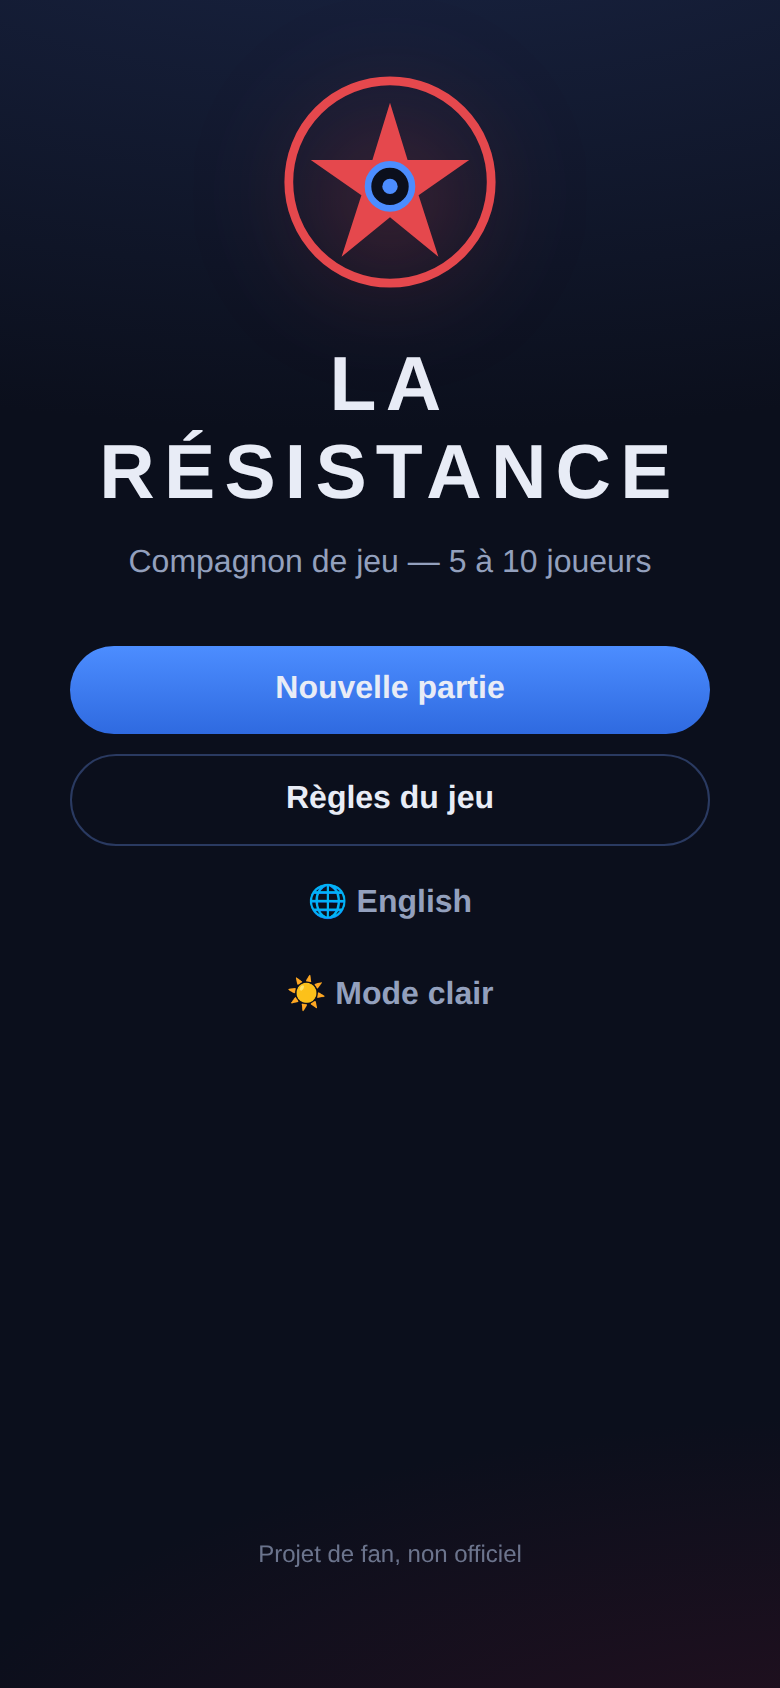
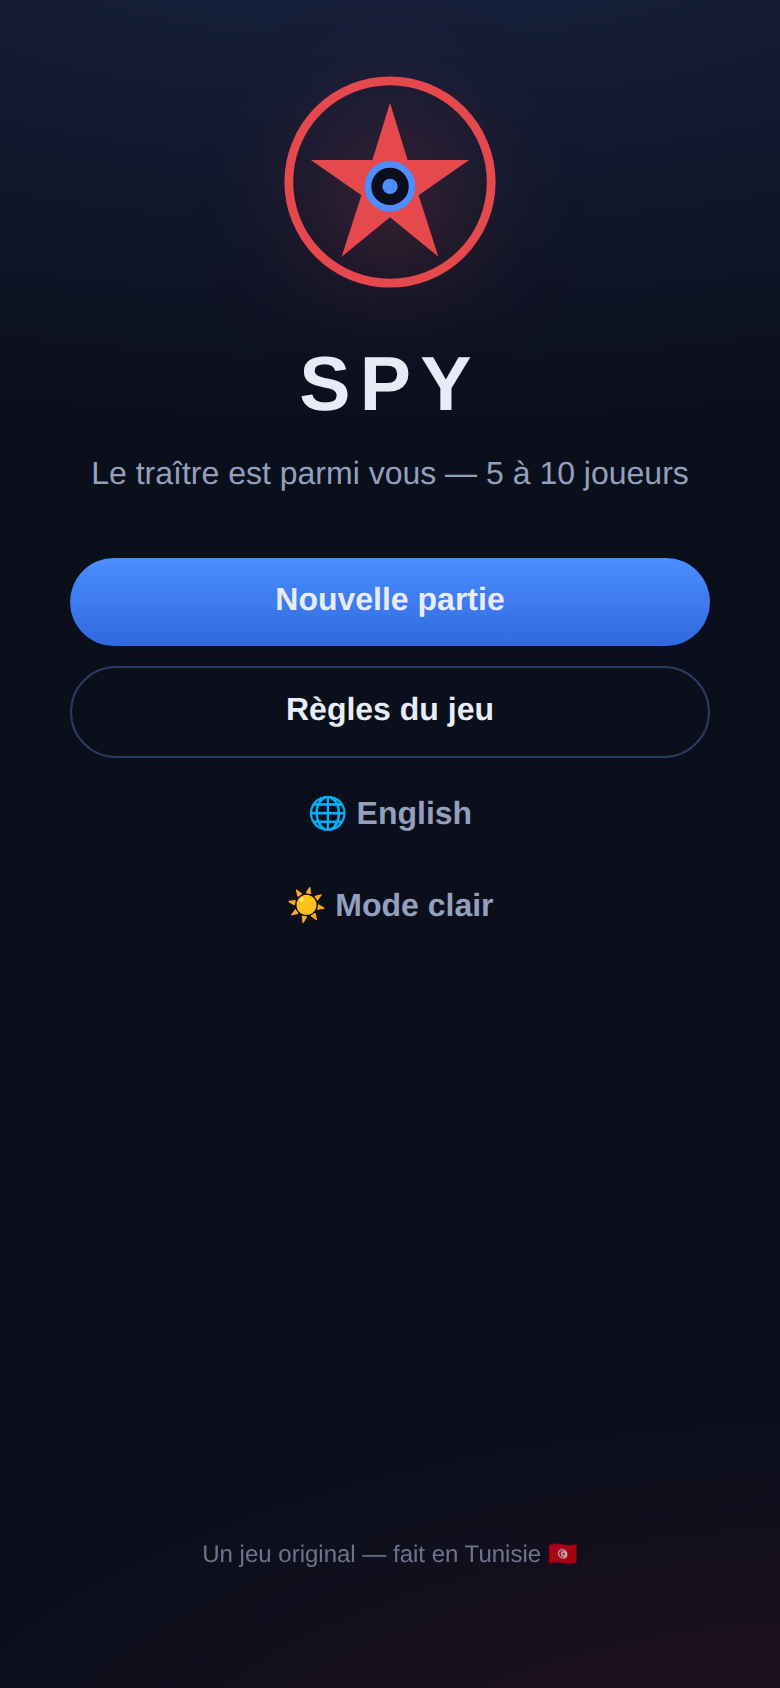
Rebranding : le jeu devient « Spy — le traître est parmi vous »
Nouveau nom en préparation de la publication et de la communication :
- Titre « Spy » (FR/EN), devise « Le traître est parmi vous », signature
  « Un jeu original — fait en Tunisie »
- La faction Résistance devient « les Agents » (cartes, votes, règles,
  annonces, écrans de fin) ; les Espions sont inchangés
- index.html, manifest (nom d'installation « Spy ») et README réécrits
  comme jeu de déduction sociale original — plus aucune référence à une
  marque de jeu de société existante
- Tests adaptés (titre unique « SPY », bascule de langue vérifiée sur un
  libellé traduit) ; captures régénérées
- Cache du service worker renommé spy-v9

Claude-Session: https://claude.ai/code/session_01JPXwtAPd76jqgUSm7TX1WG

diff --git a/js/i18n.js b/js/i18n.js
@@ -4,9 +4,9 @@
  */
 var I18N = {
   fr: {
-    'app.title': 'La Résistance',
-    'app.tagline': 'Compagnon de jeu — 5 à 10 joueurs',
-    'app.unofficial': 'Projet de fan, non officiel',
+    'app.title': 'Spy',
+    'app.tagline': 'Le traître est parmi vous — 5 à 10 joueurs',
+    'app.unofficial': 'Un jeu original — fait en Tunisie 🇹🇳',
 
     'home.newGame': 'Nouvelle partie',
     'home.resume': 'Reprendre la partie',
@@ -17,7 +17,7 @@ var I18N = {
 
     'setup.title': 'Nouvelle partie',
     'setup.playerCount': 'Nombre de joueurs',
-    'setup.spiesInfo': '{res} résistants · {spy} espions',
+    'setup.spiesInfo': '{res} agents · {spy} espions',
     'setup.namePlaceholder': 'Joueur {i}',
     'setup.options': 'Options',
     'setup.knownSpies': 'Les espions se connaissent',
@@ -36,14 +36,14 @@ var I18N = {
     'reveal.imHere': 'C’est moi ✋',
     'reveal.tapHint': 'Touche la carte pour la retourner. Retouche-la pour cacher ton rôle.',
     'reveal.secret': 'TOP SECRET',
-    'reveal.youAreRes': 'RÉSISTANCE',
+    'reveal.youAreRes': 'AGENT',
     'reveal.youAreSpy': 'ESPION',
     'reveal.youAreCommander': 'COMMANDANT',
     'reveal.resHint': 'Fais réussir 3 missions pour libérer la ville.',
     'reveal.spyHint': 'Sabote 3 missions sans te faire démasquer.',
     'reveal.commanderHint': 'Tu connais les espions. Reste discret : s’ils perdent, ils tenteront de t’éliminer.',
     'reveal.assassinBadge': 'ASSASSIN',
-    'reveal.assassinHint': 'Si la Résistance réussit 3 missions, c’est toi qui désigneras le Commandant présumé.',
+    'reveal.assassinHint': 'Si les Agents réussissent 3 missions, c’est toi qui désigneras le Commandant présumé.',
     'reveal.spiesAre': 'Les espions :',
     'reveal.accomplices': 'Tes complices :',
     'reveal.blindSpies': 'Variante à l’aveugle : tu ne connais pas tes complices.',
@@ -87,7 +87,7 @@ var I18N = {
     'mission.pickHint': 'Cache bien ton écran.',
     'mission.success': 'SUCCÈS',
     'mission.fail': 'SABOTAGE',
-    'mission.rule': 'Rappel : la Résistance joue toujours Succès.',
+    'mission.rule': 'Rappel : les Agents jouent toujours Succès.',
     'mission.confirm': 'Valider ce choix',
     'mission.change': 'Changer',
     'mission.revealTitle': 'Résultat de la mission {i}',
@@ -111,15 +111,15 @@ var I18N = {
     'cer.openAll': 'Ouvrez tous les yeux… La partie commence !',
 
     'assassin.title': 'Dernière chance des espions',
-    'assassin.hint': 'La Résistance a réussi 3 missions… mais si l’Assassin identifie le Commandant, les espions volent la victoire. Espions, concertez-vous : qui est le Commandant ?',
+    'assassin.hint': 'Les Agents ont réussi 3 missions… mais si l’Assassin identifie le Commandant, les espions volent la victoire. Espions, concertez-vous : qui est le Commandant ?',
     'assassin.choose': 'Désignez le Commandant présumé',
     'assassin.pick': 'Éliminer {name}',
 
-    'over.resWin': 'La Résistance l’emporte !',
+    'over.resWin': 'Les Agents l’emportent !',
     'over.spyWin': 'Les Espions l’emportent !',
     'over.byVotes': 'Cinq équipes rejetées d’affilée : le chaos a profité aux espions.',
     'over.assassinated': '{name} était bien le Commandant : la victoire change de camp !',
-    'over.survived': 'Raté ! {name} n’était pas le Commandant. La Résistance triomphe.',
+    'over.survived': 'Raté ! {name} n’était pas le Commandant. Les Agents triomphent.',
     'over.score': '{s} mission(s) réussie(s) · {f} sabotée(s)',
     'over.roles': 'Identités révélées',
     'over.replay': 'Rejouer (mêmes joueurs)',
@@ -128,11 +128,11 @@ var I18N = {
 
     'rules.title': 'Règles du jeu',
     'rules.goal.h': 'Le principe',
-    'rules.goal.p': 'Deux camps s’affrontent en secret. La majorité appartient à la Résistance, mais quelques espions infiltrés se cachent parmi vous. La Résistance gagne si 3 missions réussissent. Les espions gagnent si 3 missions échouent — ou si 5 équipes de suite sont rejetées au vote.',
+    'rules.goal.p': 'Deux camps s’affrontent en secret. La majorité sont des Agents, mais quelques espions infiltrés se cachent parmi vous. Les Agents gagnent si 3 missions réussissent. Les espions gagnent si 3 missions échouent — ou si 5 équipes de suite sont rejetées au vote.',
     'rules.turn.h': 'Déroulement d’une manche',
     'rules.turn.p1': '1. Le chef d’équipe propose une équipe pour la mission.',
     'rules.turn.p2': '2. Tout le monde vote publiquement pour ou contre cette équipe. Majorité stricte requise (égalité = rejet). Si l’équipe est rejetée, le rôle de chef passe au joueur suivant.',
-    'rules.turn.p3': '3. Si l’équipe est approuvée, chaque agent choisit en secret Succès ou Sabotage. La Résistance doit jouer Succès ; seuls les espions peuvent saboter. Une seule carte Sabotage suffit à faire échouer la mission (deux pour la 4e mission à partir de 7 joueurs).',
+    'rules.turn.p3': '3. Si l’équipe est approuvée, chaque membre choisit en secret Succès ou Sabotage. Les Agents doivent jouer Succès ; seuls les espions peuvent saboter. Une seule carte Sabotage suffit à faire échouer la mission (deux pour la 4e mission à partir de 7 joueurs).',
     'rules.spies.h': 'Les espions',
     'rules.spies.p': 'Les espions connaissent leurs complices (sauf en variante « à l’aveugle »). Leur arme : semer le doute, voter finement et saboter au bon moment.',
     'rules.table.h': 'Répartition',
@@ -148,16 +148,16 @@ var I18N = {
 
     'common.back': '← Retour',
     'common.players': 'joueurs',
-    'role.res': 'Résistance',
+    'role.res': 'Agent',
     'role.spy': 'Espion',
     'role.commander': 'Commandant',
     'role.assassin': 'Assassin'
   },
 
   en: {
-    'app.title': 'The Resistance',
-    'app.tagline': 'Game companion — 5 to 10 players',
-    'app.unofficial': 'Unofficial fan project',
+    'app.title': 'Spy',
+    'app.tagline': 'The traitor is among you — 5 to 10 players',
+    'app.unofficial': 'An original game — made in Tunisia 🇹🇳',
 
     'home.newGame': 'New game',
     'home.resume': 'Resume game',
@@ -168,7 +168,7 @@ var I18N = {
 
     'setup.title': 'New game',
     'setup.playerCount': 'Number of players',
-    'setup.spiesInfo': '{res} resistance · {spy} spies',
+    'setup.spiesInfo': '{res} agents · {spy} spies',
     'setup.namePlaceholder': 'Player {i}',
     'setup.options': 'Options',
     'setup.knownSpies': 'Spies know each other',
@@ -187,14 +187,14 @@ var I18N = {
     'reveal.imHere': 'That’s me ✋',
     'reveal.tapHint': 'Tap the card to flip it. Tap again to hide your role.',
     'reveal.secret': 'TOP SECRET',
-    'reveal.youAreRes': 'RESISTANCE',
+    'reveal.youAreRes': 'AGENT',
     'reveal.youAreSpy': 'SPY',
     'reveal.youAreCommander': 'COMMANDER',
     'reveal.resHint': 'Make 3 missions succeed to free the city.',
     'reveal.spyHint': 'Sabotage 3 missions without getting caught.',
     'reveal.commanderHint': 'You know the spies. Stay unnoticed: if they lose, they will try to eliminate you.',
     'reveal.assassinBadge': 'ASSASSIN',
-    'reveal.assassinHint': 'If the Resistance wins 3 missions, you will pick who you think the Commander is.',
+    'reveal.assassinHint': 'If the Agents win 3 missions, you will pick who you think the Commander is.',
     'reveal.spiesAre': 'The spies:',
     'reveal.accomplices': 'Your accomplices:',
     'reveal.blindSpies': 'Blind variant: you don’t know your accomplices.',
@@ -238,7 +238,7 @@ var I18N = {
     'mission.pickHint': 'Shield your screen.',
     'mission.success': 'SUCCESS',
     'mission.fail': 'SABOTAGE',
-    'mission.rule': 'Reminder: the Resistance always plays Success.',
+    'mission.rule': 'Reminder: Agents always play Success.',
     'mission.confirm': 'Confirm choice',
     'mission.change': 'Change',
     'mission.revealTitle': 'Mission {i} result',
@@ -262,15 +262,15 @@ var I18N = {
     'cer.openAll': 'Everyone, open your eyes… The game begins!',
 
     'assassin.title': 'The spies’ last chance',
-    'assassin.hint': 'The Resistance completed 3 missions… but if the Assassin identifies the Commander, the spies steal the win. Spies, talk it over: who is the Commander?',
+    'assassin.hint': 'The Agents completed 3 missions… but if the Assassin identifies the Commander, the spies steal the win. Spies, talk it over: who is the Commander?',
     'assassin.choose': 'Pick the suspected Commander',
     'assassin.pick': 'Eliminate {name}',
 
-    'over.resWin': 'The Resistance wins!',
+    'over.resWin': 'The Agents win!',
     'over.spyWin': 'The Spies win!',
     'over.byVotes': 'Five teams rejected in a row: chaos served the spies.',
     'over.assassinated': '{name} really was the Commander: the win changes sides!',
-    'over.survived': 'Missed! {name} was not the Commander. The Resistance triumphs.',
+    'over.survived': 'Missed! {name} was not the Commander. The Agents triumph.',
     'over.score': '{s} mission(s) succeeded · {f} sabotaged',
     'over.roles': 'Identities revealed',
     'over.replay': 'Play again (same players)',
@@ -279,11 +279,11 @@ var I18N = {
 
     'rules.title': 'How to play',
     'rules.goal.h': 'The idea',
-    'rules.goal.p': 'Two sides fight in the shadows. Most players belong to the Resistance, but a few undercover spies hide among you. The Resistance wins when 3 missions succeed. The spies win when 3 missions fail — or when 5 teams in a row are voted down.',
+    'rules.goal.p': 'Two sides fight in the shadows. Most players are Agents, but a few undercover spies hide among you. The Agents win when 3 missions succeed. The spies win when 3 missions fail — or when 5 teams in a row are voted down.',
     'rules.turn.h': 'A round',
     'rules.turn.p1': '1. The team leader proposes a team for the mission.',
     'rules.turn.p2': '2. Everyone votes openly for or against that team. Strict majority required (tie = rejected). If the team is rejected, leadership passes to the next player.',
-    'rules.turn.p3': '3. If the team is approved, each agent secretly picks Success or Sabotage. Resistance members must pick Success; only spies may sabotage. One sabotage card fails the mission (two on mission 4 with 7+ players).',
+    'rules.turn.p3': '3. If the team is approved, each member secretly picks Success or Sabotage. Agents must pick Success; only spies may sabotage. One sabotage card fails the mission (two on mission 4 with 7+ players).',
     'rules.spies.h': 'The spies',
     'rules.spies.p': 'Spies know their accomplices (unless you play the blind variant). Their weapons: sowing doubt, voting cleverly and sabotaging at the right moment.',
     'rules.table.h': 'Setup table',
@@ -299,7 +299,7 @@ var I18N = {
 
     'common.back': '← Back',
     'common.players': 'players',
-    'role.res': 'Resistance',
+    'role.res': 'Agent',
     'role.spy': 'Spy',
     'role.commander': 'Commander',
     'role.assassin': 'Assassin'

diff --git a/tests/e2e.js b/tests/e2e.js
@@ -133,11 +133,13 @@ async function main() {
   await page.waitForSelector('[data-action="toSetup"]');
   await shot('01-accueil');
 
-  // Bascule de langue FR → EN → FR.
+  // Le titre est « SPY » dans les deux langues ; la bascule FR/EN se vérifie
+  // sur un libellé traduit.
+  assert.ok((await page.locator('.title').innerText()).includes('SPY'), 'titre Spy');
   await click('[data-action="toggleLang"]');
-  assert.ok((await page.locator('.title').innerText()).includes('RESISTANCE'), 'titre anglais');
+  assert.ok((await page.locator('[data-action="rules"]').innerText()).includes('How to play'), 'interface anglaise');
   await click('[data-action="toggleLang"]');
-  assert.ok((await page.locator('.title').innerText()).includes('RÉSISTANCE'), 'titre français');
+  assert.ok((await page.locator('[data-action="rules"]').innerText()).includes('Règles du jeu'), 'interface française');
   console.log('  ✓ bascule FR/EN');
 
   // Bascule de thème clair/sombre.
@@ -274,7 +276,7 @@ async function main() {
   assert.strictEqual(st.screen, 'gameover');
   assert.strictEqual(st.game.winner, 'res');
   await shot('09-fin-resistance');
-  console.log('  ✓ partie C : victoire de la Résistance (3 succès)');
+  console.log('  ✓ partie C : victoire des Agents (3 succès)');
 
   // --- Partie D : mode Commandant, l'Assassin vise juste ------------
   await click('[data-action="toSetup"]');
@@ -327,7 +329,7 @@ async function main() {
   assert.strictEqual(st.screen, 'gameover');
   assert.strictEqual(st.game.winner, 'res');
   assert.ok(st.game.assassination && !st.game.assassination.wasCommander);
-  console.log('  ✓ partie E : l’Assassin se trompe, la Résistance l’emporte');
+  console.log('  ✓ partie E : l’Assassin se trompe, les Agents l’emportent');
 
   // --- Reprise de partie (sauvegarde locale) ------------------------
   await click('[data-action="toSetup"]');

diff --git a/index.html b/index.html
@@ -4,8 +4,8 @@
   <meta charset="UTF-8">
   <meta name="viewport" content="width=device-width, initial-scale=1.0, viewport-fit=cover, user-scalable=no">
   <meta name="theme-color" content="#0b0f1c">
-  <meta name="description" content="La Résistance — compagnon de jeu non officiel pour 5 à 10 joueurs : rôles secrets, missions, votes. Un seul téléphone, hors ligne.">
-  <title>La Résistance — Compagnon de jeu</title>
+  <meta name="description" content="Spy — jeu de déduction sociale pour 5 à 10 joueurs : rôles secrets, missions, votes, annonceur vocal. Un seul téléphone, hors ligne. Le traître est parmi vous.">
+  <title>Spy — Jeu d'espions</title>
   <link rel="manifest" href="manifest.webmanifest">
   <link rel="icon" href="icons/icon.svg" type="image/svg+xml">
   <link rel="apple-touch-icon" href="icons/icon-192.png">

diff --git a/js/app.js b/js/app.js
@@ -1,7 +1,7 @@
 /*
- * La Résistance — compagnon de jeu (PWA hors ligne, un seul téléphone).
- * Machine à états : home → setup → reveal → board (team / vote / mission /
- * missionReveal) → gameover.
+ * Spy — jeu de déduction sociale (PWA hors ligne, un seul téléphone).
+ * Machine à états : home → setup → reveal → ceremony → board (team / vote /
+ * mission / missionReveal / assassin) → gameover.
  */
 (function () {
   'use strict';

diff --git a/sw.js b/sw.js
@@ -1,5 +1,5 @@
 /* Service worker : mise en cache de l'application pour jouer hors ligne. */
-var CACHE = 'resistance-v8';
+var CACHE = 'spy-v9';
 var ASSETS = [
   './',
   './index.html',

diff --git a/README.md b/README.md
@@ -1,9 +1,9 @@
-# La Résistance — Compagnon de jeu 🕵
+# Spy 🕵 — le traître est parmi vous
 
-Application compagnon **non officielle** pour jouer au jeu de déduction sociale
-*The Resistance* entre amis, avec **un seul téléphone** qui passe de main en main.
-5 à 10 joueurs : la majorité appartient à la Résistance, mais des espions
-infiltrés cherchent à saboter les missions…
+**Spy** est un jeu de déduction sociale (la grande famille du Loup-garou et de
+Mafia) qui se joue entre amis avec **un seul téléphone** qui passe de main en
+main. 5 à 10 joueurs : la majorité sont des Agents, mais des espions infiltrés
+cherchent à saboter les missions…
 
 C'est une **PWA** (application web) : elle s'installe sur l'écran d'accueil
 d'un téléphone et fonctionne **entièrement hors ligne**. Aucun serveur, aucun
@@ -14,10 +14,10 @@ compte, aucune donnée collectée.
 - **Distribution secrète des rôles** : chacun retourne sa carte d'un simple
   toucher (animation 3D) et la re-cache avant de passer le téléphone. Les
   espions découvrent leurs complices.
-- **Mode Commandant (optionnel)** : le Commandant connaît les espions ; si la
-  Résistance réussit 3 missions, l'Assassin des espions peut l'éliminer au
+- **Mode Commandant (optionnel)** : le Commandant connaît les espions ; si les
+  Agents réussissent 3 missions, l'Assassin des espions peut l'éliminer au
   dernier moment pour voler la victoire.
-- **Suivi complet de la partie** : 5 missions, tailles d'équipe officielles,
+- **Suivi complet de la partie** : 5 missions, tailles d'équipe équilibrées,
   rotation du chef d'équipe, piste des votes rejetés (5 rejets = victoire des
   espions), règle des « 2 échecs » pour la mission 4 à partir de 7 joueurs.
 - **Vote public** pour approuver ou rejeter chaque équipe.
@@ -28,8 +28,8 @@ compte, aucune donnée collectée.
   identique pour tous les rôles (mêmes fonds de cartes, rien de désactivé —
   seules les étiquettes sont colorées : Sabotage en rouge, Succès en bleu),
   l'ordre des deux cartes est tiré au sort pour chaque joueur (la position du
-  doigt ne révèle rien), et un résistant qui touche Sabotage sélectionne
-  automatiquement Succès (règle officielle). Les cartes de rôle utilisent
+  doigt ne révèle rien), et un Agent qui touche Sabotage sélectionne
+  automatiquement Succès (règle du jeu). Les cartes de rôle utilisent
   aussi un fond neutre illisible à distance.
 - **Thème clair ou sombre** ☀🌙 : bouton sur l'écran d'accueil, préférence
   mémorisée.
@@ -123,7 +123,7 @@ tests/                Tests de la logique
 
 ## ⚖ Mentions
 
-Projet de fan, développé pour un usage privé entre amis. Non affilié aux
-auteurs ou éditeurs du jeu de société *The Resistance* ni à aucune application
-existante. Tout le code, les textes et les visuels de ce dépôt sont originaux
-(licence MIT).
+**Spy** est un jeu original appartenant à la grande famille des jeux de
+déduction sociale (Mafia, Loup-garou) — des mécaniques de genre librement
+réutilisables. Tout le code, les textes et les visuels de ce dépôt sont des
+créations originales (licence MIT).
